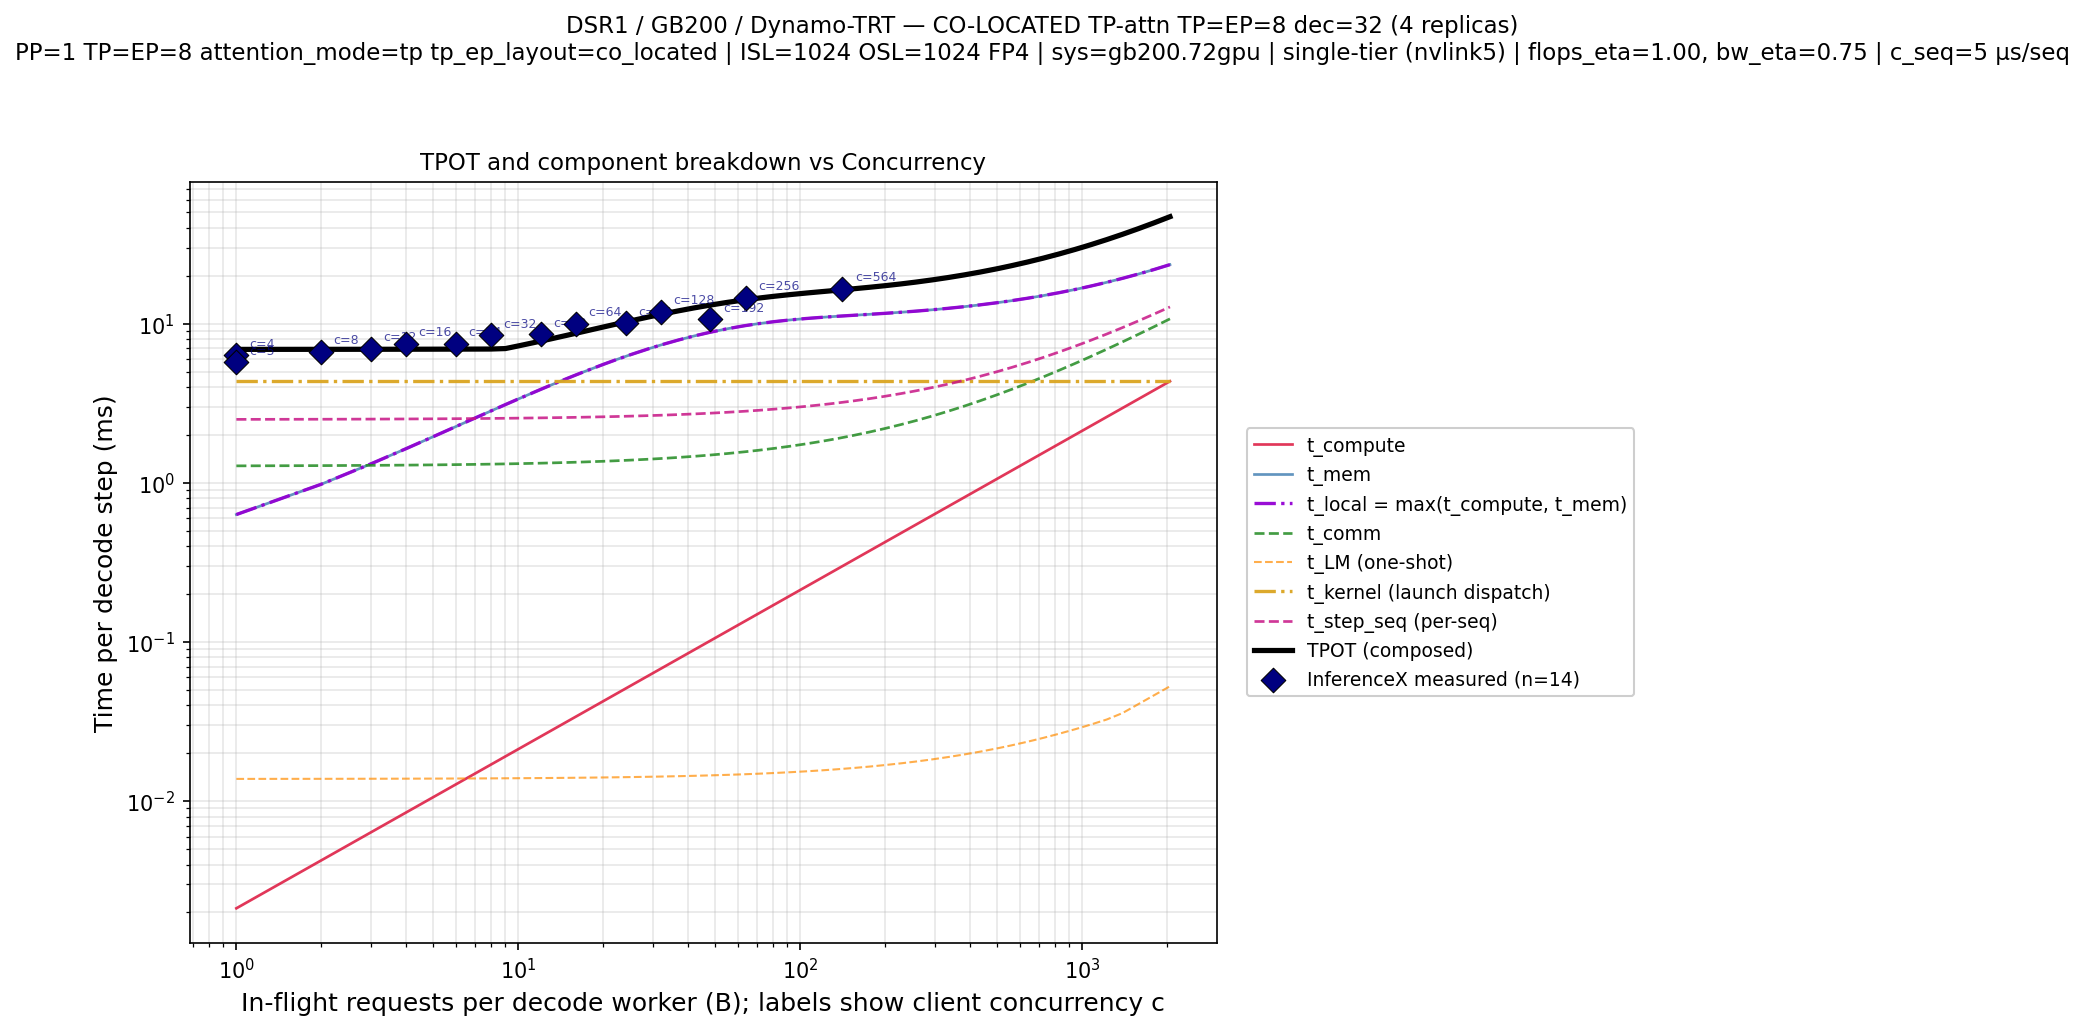
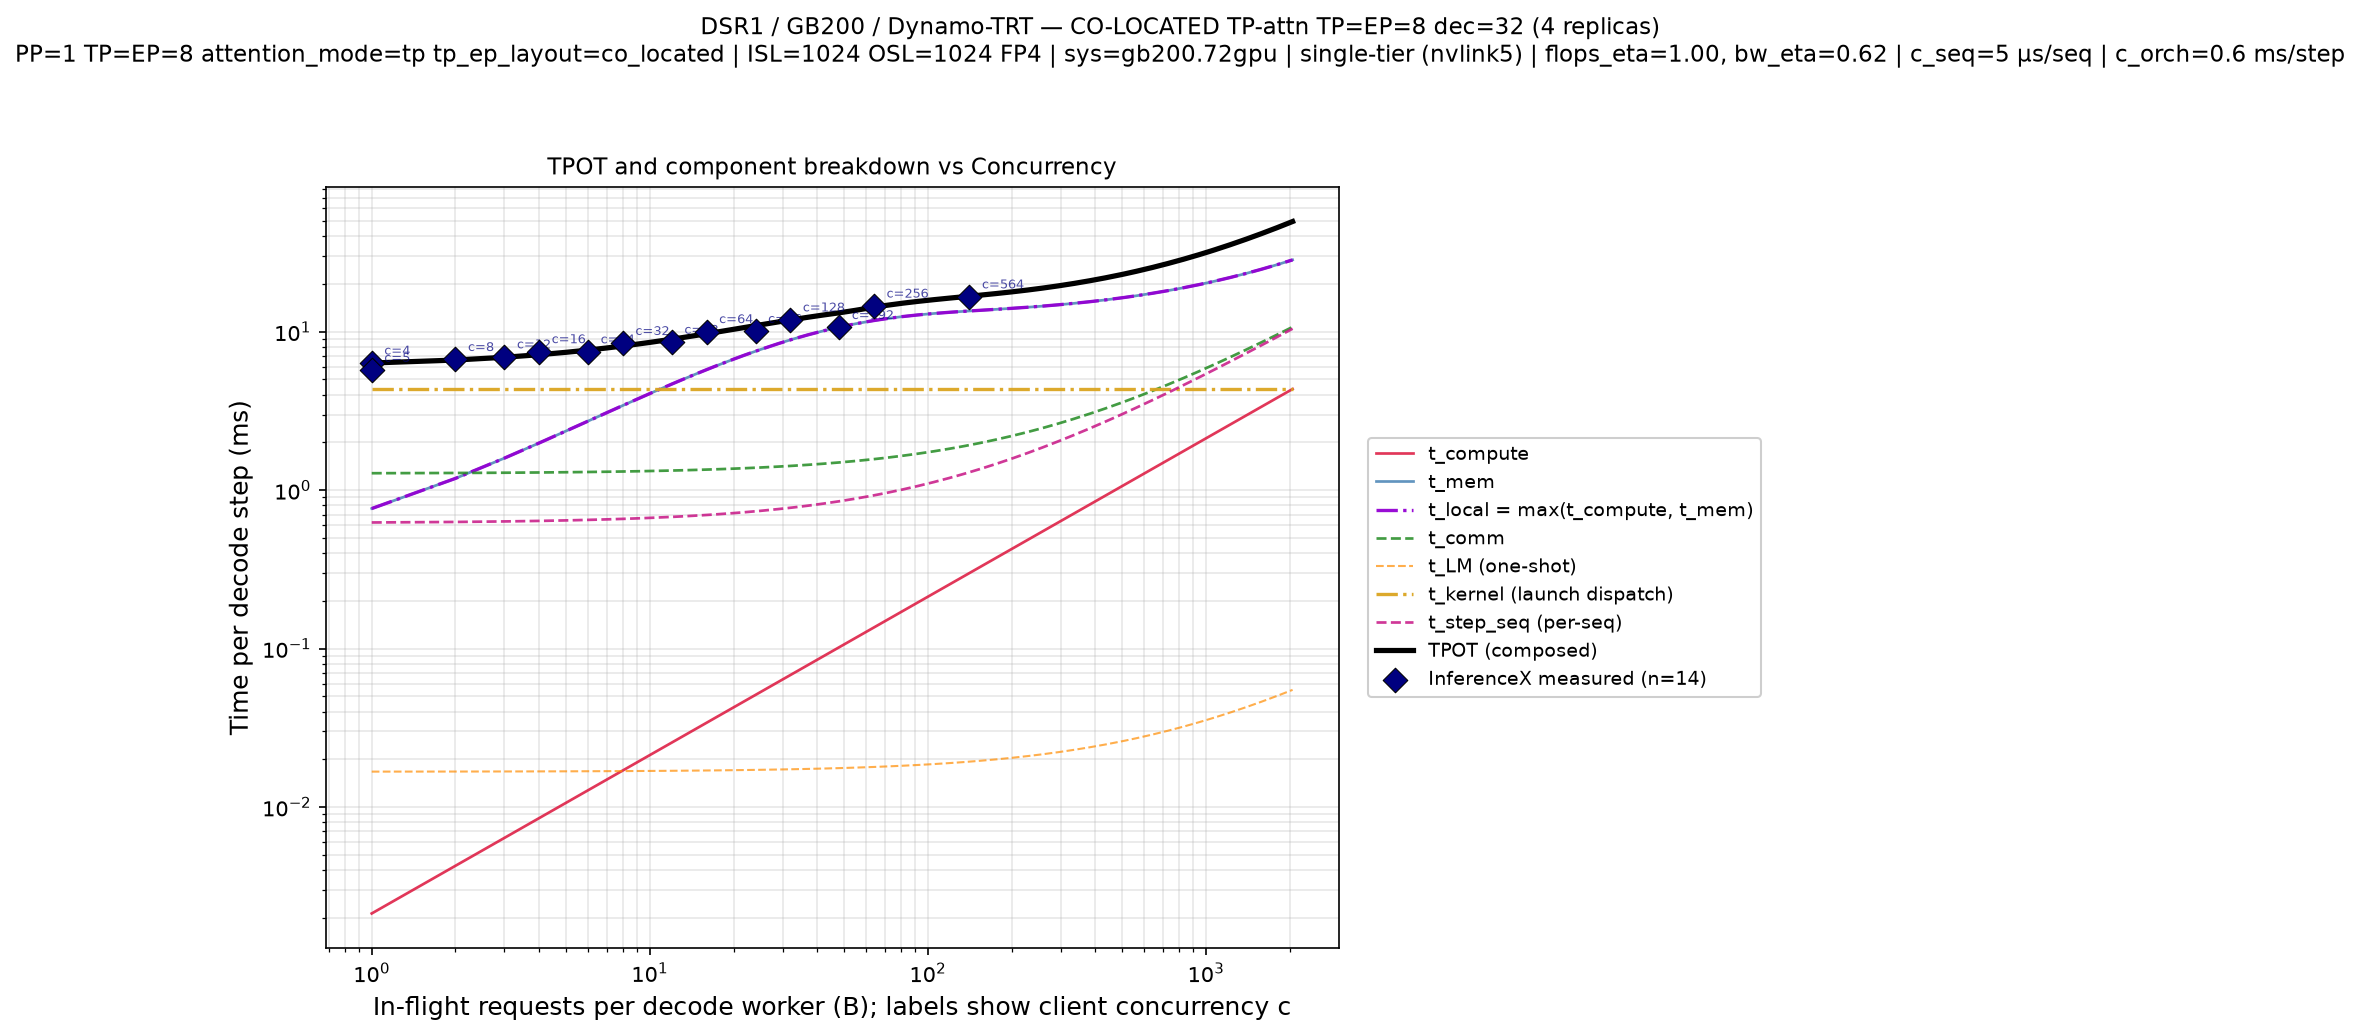
fix(validate): recalibrate the two GB200 Dynamo+TRT validators per setup
Calibration is per (model, hardware, serving stack). Four constants are
fitted on each setup's own InferenceX rows by least mean absolute error:
the memory-bandwidth factor, host work per sequence, the per-step host
floor, and the share of kernel-launch time that overlaps GPU work.

gpt-oss-120b on GB200: 9.0% -> 5.6% (one cut of seven points, no held-out
check). DeepSeek-R1 on GB200: 15.1% -> 12.9% over 43 points, 17.3% on a cut
held out of the fit; the co-located TP-attention cut goes 8.7% -> 4.7%.
The two README figures are regenerated at the new constants.

Claude-Session: https://claude.ai/code/session_01U2UPQRbj73Q8GAavhBpSdQ

diff --git a/benchmark/validate/dsr1_gb200_dynamo_trt.py b/benchmark/validate/dsr1_gb200_dynamo_trt.py
@@ -70,7 +70,7 @@ CO_LOCATED_WORKLOADS = [(1024, 1024), (8192, 1024)]
 # the bulk of the improvement: Dynamo+TRT absorbs per-seq host work into
 # the CUDA-graph launch, so the framework's per-seq overhead term
 # over-counts at large B (the offending TP=EP=16,32 cells run at B≥4000).
-DEFAULT_BW_ETA = 0.75
+DEFAULT_BW_ETA = 0.62
 # 5 µs/seq — stack-realistic floor for Dynamo+TRT under CUDA-Graph replay.
 # Below the panel break-even at every measured operating point: at B=4300
 # (largest panel-(c) measured) c_seq·B = 21.5 ms < t_step_base ~25 ms,
@@ -79,7 +79,7 @@ DEFAULT_BW_ETA = 0.75
 # component plot (was previously 0 → suppressed by the plot helper's
 # any(t_step_seq_ms > 0) guard). Sits at the lower end of decode.md §7.2's
 # 5-22 µs C++/CUDA-graph + orchestrator range.
-DEFAULT_C_SEQ_US = 5.0
+DEFAULT_C_SEQ_US = 4.8
 # kernel_launch_us: 4.0 µs — calibrated Dynamo-orchestrator effective per-
 # kernel cost on H100/H200. Sits between the CUDA-Graph optimum (1.5 µs)
 # and TaxBreak's measured eager-mode floor (4.5-4.7 µs on H100/H200, arxiv
@@ -99,8 +99,13 @@ DEFAULT_KERNEL_LAUNCH_US = 4.0
 #   - c_orch: per-step floor that does not depend on batch, fitted per cut
 #     alongside bw_eta. c_seq and kernel_launch_us stay shared by every
 #     Dynamo+TRT cut.
-DEFAULT_C_ORCH_US = 2500.0
+# Recalibrated 2026-11-16 against the InferenceX rows of this setup (least mean absolute error):
+# calibration is per setup. Four knobs fitted on all eight cuts together (bw_eta, c_seq, c_orch,
+# kernel_overlap_factor): mean error 15.1% -> 12.9%; with one cut held out of the fit, that cut scores 17.3% on
+# average. Part of what the 2.5 ms per-step floor carried is now kernel-launch time that does not overlap.
+DEFAULT_C_ORCH_US = 620.0
 DEFAULT_SEQ_OVERLAP = 0.0
+DEFAULT_KERNEL_OVERLAP = 0.35
 DEFAULT_MOE_A2A_PATTERN = "scatter"
 
 
@@ -128,7 +133,7 @@ def run_exact(args) -> tuple[list[tuple], int]:
         c_seq_us=args.c_seq_us, c_orch_us=args.c_orch_us,
         seq_overlap_factor=DEFAULT_SEQ_OVERLAP,
         moe_a2a_pattern=DEFAULT_MOE_A2A_PATTERN,
-        kernel_launch_us=DEFAULT_KERNEL_LAUNCH_US,
+        kernel_launch_us=DEFAULT_KERNEL_LAUNCH_US, kernel_overlap_factor=DEFAULT_KERNEL_OVERLAP,
         bytes_per_param=0.5,
     )
 
@@ -143,7 +148,7 @@ def run_exact(args) -> tuple[list[tuple], int]:
             c_seq_us=args.c_seq_us, c_orch_us=args.c_orch_us,
         seq_overlap_factor=DEFAULT_SEQ_OVERLAP,
             moe_a2a_pattern=DEFAULT_MOE_A2A_PATTERN,
-            kernel_launch_us=DEFAULT_KERNEL_LAUNCH_US,
+            kernel_launch_us=DEFAULT_KERNEL_LAUNCH_US, kernel_overlap_factor=DEFAULT_KERNEL_OVERLAP,
             bytes_per_param=0.5,
         )
         rows.append((f"TP={bucket[0]} EP=1", m.B, m.tpot_ms, pred))
@@ -180,7 +185,7 @@ def _run_colocated_workload(args, tp_ep: int, isl: int, osl: int):
         c_seq_us=args.c_seq_us, c_orch_us=args.c_orch_us,
         seq_overlap_factor=DEFAULT_SEQ_OVERLAP,
         moe_a2a_pattern=DEFAULT_MOE_A2A_PATTERN,
-        kernel_launch_us=DEFAULT_KERNEL_LAUNCH_US,
+        kernel_launch_us=DEFAULT_KERNEL_LAUNCH_US, kernel_overlap_factor=DEFAULT_KERNEL_OVERLAP,
         bytes_per_param=0.5,
     )
     rows = []
@@ -194,7 +199,7 @@ def _run_colocated_workload(args, tp_ep: int, isl: int, osl: int):
             c_seq_us=args.c_seq_us, c_orch_us=args.c_orch_us,
         seq_overlap_factor=DEFAULT_SEQ_OVERLAP,
             moe_a2a_pattern=DEFAULT_MOE_A2A_PATTERN,
-            kernel_launch_us=DEFAULT_KERNEL_LAUNCH_US,
+            kernel_launch_us=DEFAULT_KERNEL_LAUNCH_US, kernel_overlap_factor=DEFAULT_KERNEL_OVERLAP,
             bytes_per_param=0.5,
         )
         rows.append((f"TP=EP={tp_ep} {isl}/{osl}", m.B, m.tpot_ms, pred))
@@ -273,7 +278,7 @@ def run_colo_tp_attn(args) -> tuple[list[tuple], int]:
         c_seq_us=args.c_seq_us, c_orch_us=args.c_orch_us,
         seq_overlap_factor=DEFAULT_SEQ_OVERLAP,
         moe_a2a_pattern=DEFAULT_MOE_A2A_PATTERN,
-        kernel_launch_us=DEFAULT_KERNEL_LAUNCH_US,
+        kernel_launch_us=DEFAULT_KERNEL_LAUNCH_US, kernel_overlap_factor=DEFAULT_KERNEL_OVERLAP,
         bytes_per_param=0.5,
     )
     for m in measured:
@@ -286,7 +291,7 @@ def run_colo_tp_attn(args) -> tuple[list[tuple], int]:
             c_seq_us=args.c_seq_us, c_orch_us=args.c_orch_us,
         seq_overlap_factor=DEFAULT_SEQ_OVERLAP,
             moe_a2a_pattern=DEFAULT_MOE_A2A_PATTERN,
-            kernel_launch_us=DEFAULT_KERNEL_LAUNCH_US,
+            kernel_launch_us=DEFAULT_KERNEL_LAUNCH_US, kernel_overlap_factor=DEFAULT_KERNEL_OVERLAP,
             bytes_per_param=0.5,
         )
         rows.append(("TP=EP=8 dec=32 colo TP-attn", m.B, m.tpot_ms, pred))

diff --git a/benchmark/validate/gpt_oss_120b_gb200_dynamo_trt.py b/benchmark/validate/gpt_oss_120b_gb200_dynamo_trt.py
@@ -37,14 +37,14 @@ TP, EP, NUM = 4, 1, 4
 # faster than measured). Resolving this likely requires a fixed per-step
 # overhead term or precision-aware kernel-launch budget; documented as a
 # §5 Limitation.
-DEFAULT_BW_ETA = 0.65
+DEFAULT_BW_ETA = 0.69
 # 5 µs/seq — Dynamo+TRT stack default (matches dynamo_trt.json and the
 # DSr1 Dynamo+TRT validator). At panel-(a) max B=128, c_seq·B = 0.64 ms
 # vs t_step_base ~5-10 ms → fully hidden by the overlap gate (ρ_seq=1),
 # so the value does not affect MAE. Previous value 22 µs was a tuning hack
 # under the old additive (no-overlap) model; with the overlap gate the
 # stack-wide 5 µs default is the consistent choice.
-DEFAULT_C_SEQ_US = 5.0
+DEFAULT_C_SEQ_US = 5.5
 # 4.0 µs — Dynamo-orchestrator calibrated effective per-kernel cost (same
 # as the DSr1 Dynamo+TRT validator). Sits between CUDA-Graph optimum
 # (1.5 µs) and TaxBreak's eager-mode floor (4.5-4.7 µs); the spread
@@ -61,6 +61,11 @@ DEFAULT_KERNEL_LAUNCH_US = 4.0
 #     Dynamo+TRT cut.
 DEFAULT_C_ORCH_US = 0.0
 DEFAULT_SEQ_OVERLAP = 0.0
+# Recalibrated 2026-11-16 against the InferenceX rows of this setup (least mean absolute error):
+# calibration is per setup. Four knobs (bw_eta, c_seq, c_orch, kernel_overlap_factor): mean error
+# 9.0% -> 5.6%. A launch overlap below one replaces the hard max(t_stage, t_kernel) corner near batch 16 with a
+# gradual one, which is what the measured points show. One cut of seven points, so no held-out check exists.
+DEFAULT_KERNEL_OVERLAP = 0.55
 
 
 def main() -> int:
@@ -90,7 +95,7 @@ def main() -> int:
         flops_eta=args.flops_eta, bw_eta=args.bw_eta,
         c_seq_us=args.c_seq_us, c_orch_us=args.c_orch_us,
         seq_overlap_factor=DEFAULT_SEQ_OVERLAP,
-        kernel_launch_us=DEFAULT_KERNEL_LAUNCH_US,
+        kernel_launch_us=DEFAULT_KERNEL_LAUNCH_US, kernel_overlap_factor=DEFAULT_KERNEL_OVERLAP,
     )
     rows = []
     for m in measured:
@@ -102,7 +107,7 @@ def main() -> int:
             flops_eta=args.flops_eta, bw_eta=args.bw_eta,
             c_seq_us=args.c_seq_us, c_orch_us=args.c_orch_us,
         seq_overlap_factor=DEFAULT_SEQ_OVERLAP,
-            kernel_launch_us=DEFAULT_KERNEL_LAUNCH_US,
+            kernel_launch_us=DEFAULT_KERNEL_LAUNCH_US, kernel_overlap_factor=DEFAULT_KERNEL_OVERLAP,
         )
         rows.append((f"TP={TP} EP={EP}", m.B, m.tpot_ms, pred))
 

diff --git a/benchmark/validate/README.md b/benchmark/validate/README.md
@@ -10,10 +10,10 @@ The published set is the two per-cut drivers the root README walks through.
 
 | Driver | Model spec | System | Framework | Cuts |
 |---|---|---|---|---|
-| `gpt_oss_120b_gb200_dynamo_trt.py` | `gpt_oss_120b` | `gb200.72gpu` | dynamo-trt | TP=4 EP=1 dec=4 — mean absolute error (MAE) 9.0% over 7 points |
-| `dsr1_gb200_dynamo_trt.py` | `deepseek_r1_0528` | `gb200.72gpu` | dynamo-trt | EXACT (TP=36 EP=1), CO-LOCATED (TP=EP={8,16,32}), ORTHO (TP=8 EP=8 dec=32) — 8.7% MAE over 14 points on the co-located TP-attention cut |
+| `gpt_oss_120b_gb200_dynamo_trt.py` | `gpt_oss_120b` | `gb200.72gpu` | dynamo-trt | TP=4 EP=1 dec=4 — mean absolute error (MAE) 5.6% over 7 points |
+| `dsr1_gb200_dynamo_trt.py` | `deepseek_r1_0528` | `gb200.72gpu` | dynamo-trt | EXACT (TP=36 EP=1), CO-LOCATED (TP=EP={8,16,32}), ORTHO (TP=8 EP=8 dec=32) — 4.7% MAE over 14 points on the co-located TP-attention cut; 12.9% over all 43 points, 17.3% on a cut held out of the fit |
 
-Both are calibrated: `bw_eta` and the per-step host floor `c_orch` are fitted per (model, hardware, framework) cell, while `c_seq`, the per-kernel launch time and the additive host composition (`seq_overlap_factor = 0`) are shared by every cut on that serving stack. The measured `conc` is the client concurrency of the whole endpoint, so `load_measured` divides it by `decode_num_workers` to get the per-replica batch the model works in. Everything else is first-principles. `bw_eta` multiplies on top of the `hbm_eta_beta` the system spec already carries (0.7 on GB200), so the default 0.7 means 0.49× nameplate HBM bandwidth; it is a fitted residual, not a measured hardware constant. Accuracy on an *uncalibrated* cell is materially worse — the dominant residual is a consistent under-prediction that grows with batch size, which is the not-yet-calibrated per-step host floor rather than a failure of the roofline itself.
+Both are calibrated per setup: `bw_eta`, `c_seq`, the per-step host floor `c_orch` and the kernel-launch overlap `kernel_overlap_factor` are fitted per (model, hardware, framework) cell on that cell's InferenceX rows (least mean absolute error, 2026-11-16), while the per-kernel launch time and the additive host composition (`seq_overlap_factor = 0`) are shared by every cut on that serving stack. Constants fitted on one model do not carry over to another model on the same hardware and stack (24% to 83% error when tried), so a fitted error is a statement about calibration quality; the error on a cut held out of the fit is the closer thing to a prediction test. The measured `conc` is the client concurrency of the whole endpoint, so `load_measured` divides it by `decode_num_workers` to get the per-replica batch the model works in. Everything else is first-principles. `bw_eta` multiplies on top of the `hbm_eta_beta` the system spec already carries (0.7 on GB200), so the default 0.7 means 0.49× nameplate HBM bandwidth; it is a fitted residual, not a measured hardware constant. Accuracy on an *uncalibrated* cell is materially worse — the dominant residual is a consistent under-prediction that grows with batch size, which is the not-yet-calibrated per-step host floor rather than a failure of the roofline itself.
 
 ## Running
 
